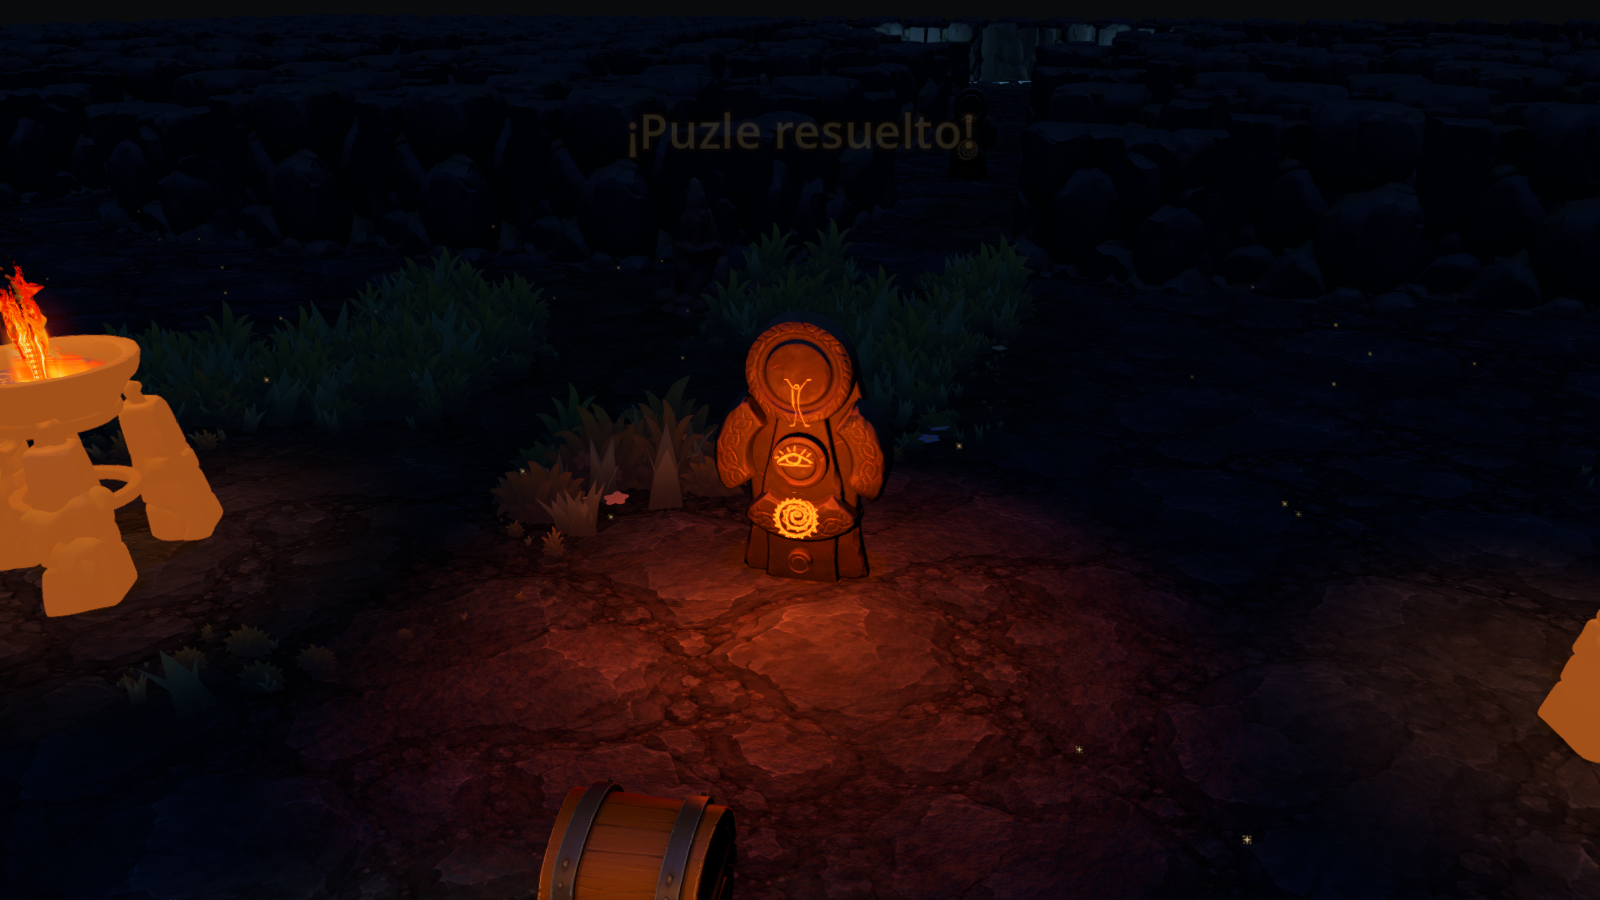
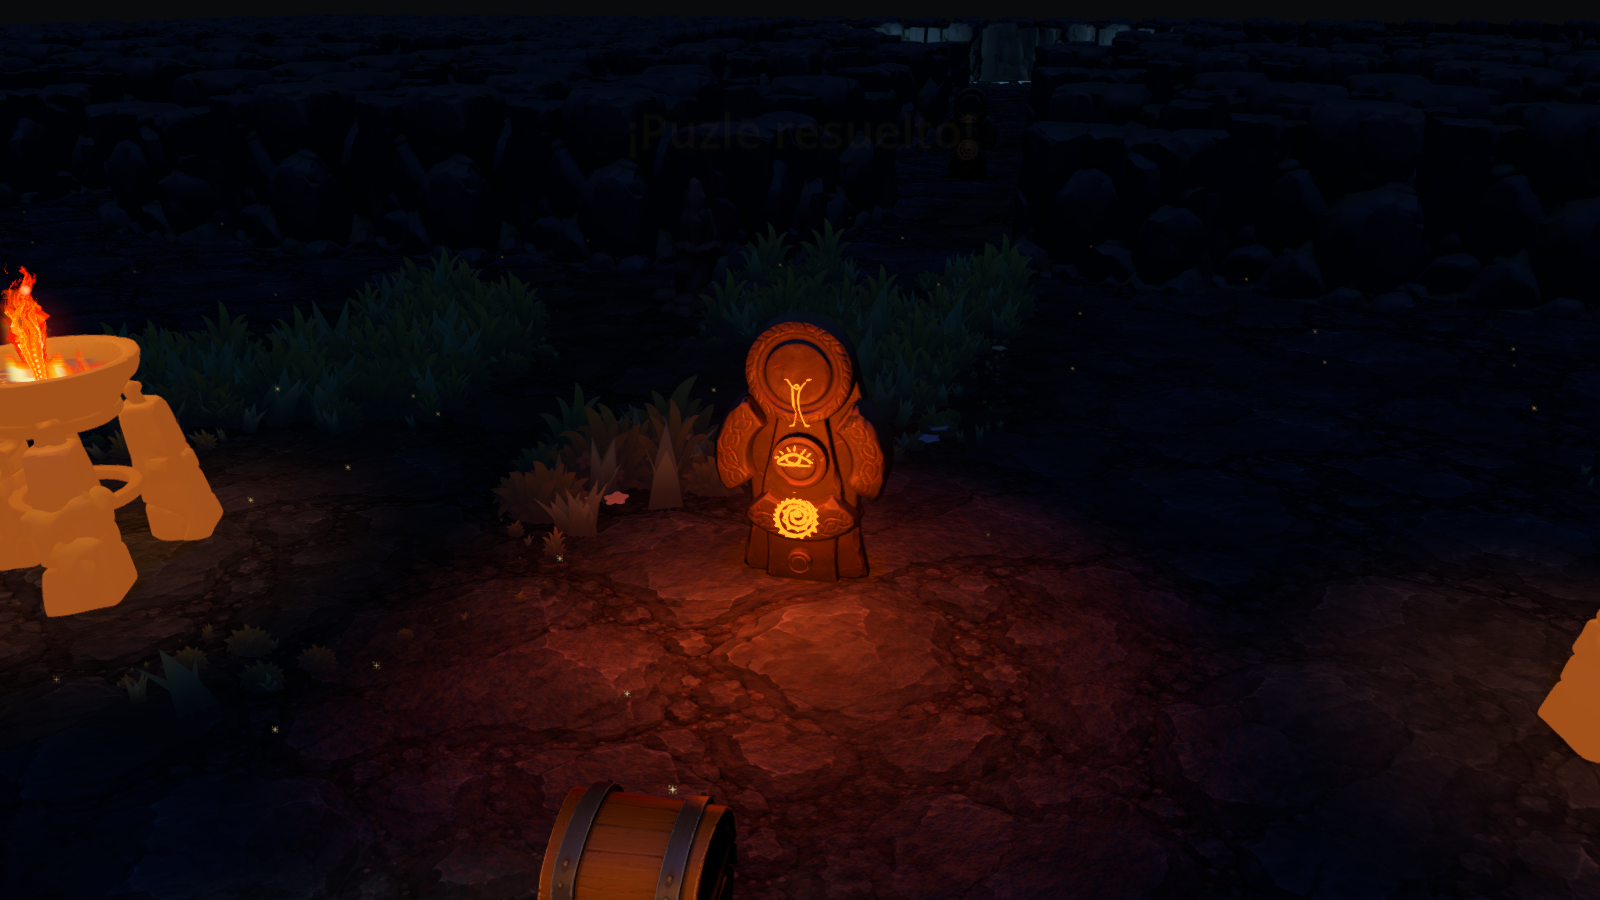
Tótem contador por defecto en todos los niveles; símbolos apagados más legibles
Pablo: «sí, en todos». El tótem sustituye a la placa en todos los contadores
con casilla (modelo=placa para la de antes). Trazo engrosado y color apagado
opaco para que se vea de día. Nueva captura_totems_niveles.gd: 7 niveles,
todos los contadores son tótem, 0 fallos.

diff --git a/docs/DIARIO.md b/docs/DIARIO.md
@@ -6254,3 +6254,19 @@ Pablo: «¿hay una manera mejor de enseñar el progreso? Se me ocurre un tótem 
 - **Pruebas:**
   - `captura_totem.gd` (nueva, con ventana), 0 fallos: sin rótulo, 3 símbolos, 2 encendidos con 2 braseros, completo con 3. Fotos en `docs/capturas/totem/`.
   - `escenario_catalogo_puzles`, `escenario_catalogo_nuevos` y `prueba_generador_mapas`: 0 fallos.
+
+### 24/11/2026 · aviso de contexto PUZLES · el tótem contador en todos los niveles
+Pablo: «sí, en todos».
+- **El tótem es ya el contador por defecto** (`objetos/contador_reactivos_3d.gd`). Sale en todos los contadores con casilla, también en los niveles hechos a mano. La placa con gemas y el rótulo «ENCENDIDAS n/m» quedan para `modelo=placa`, o si falta el pack. La documentación de la clave está en `puzle.gd`.
+- **Los símbolos apagados se ven mejor:**
+  - De día, en el bosque, el trazo fino y oscuro casi desaparecía sobre la piedra.
+  - El shader engrosa el trazo (smoothstep sobre el alfa) y el color apagado pasa a opaco.
+- **Pruebas:**
+  - Nueva `herramientas/captura_totems_niveles.gd`, con argumentos `desde=` y `hasta=`. Sin ventana cuenta los tótems pero no hace fotos.
+  - Cuenta de tótems, todos los contadores con casilla son tótem (0 fallos): Bosque 01 2/2, Bosque 01 v01 2/2, Bosque 02 1/1, Cueva 1/1, Cueva Resonante 1/1, Gruta Batida 2/2 y LabPuzlesFuego3D 3/3.
+  - Fotos en `docs/capturas/totem/niveles/`.
+  - `captura_totem`, `escenario_catalogo_puzles` y `escenario_catalogo_nuevos`: 0 fallos.
+- **Aviso:**
+  - El Bosque 02 se cuelga **solo dentro de la herramienta con ventana**: deja de responder al cargar, sin gastar CPU. Por eso se probó sin ventana y no tiene foto.
+  - Abierto como juego normal, con ventana, carga y responde.
+  - No parece del tótem, porque sin ventana carga bien, pero no está aislado.
